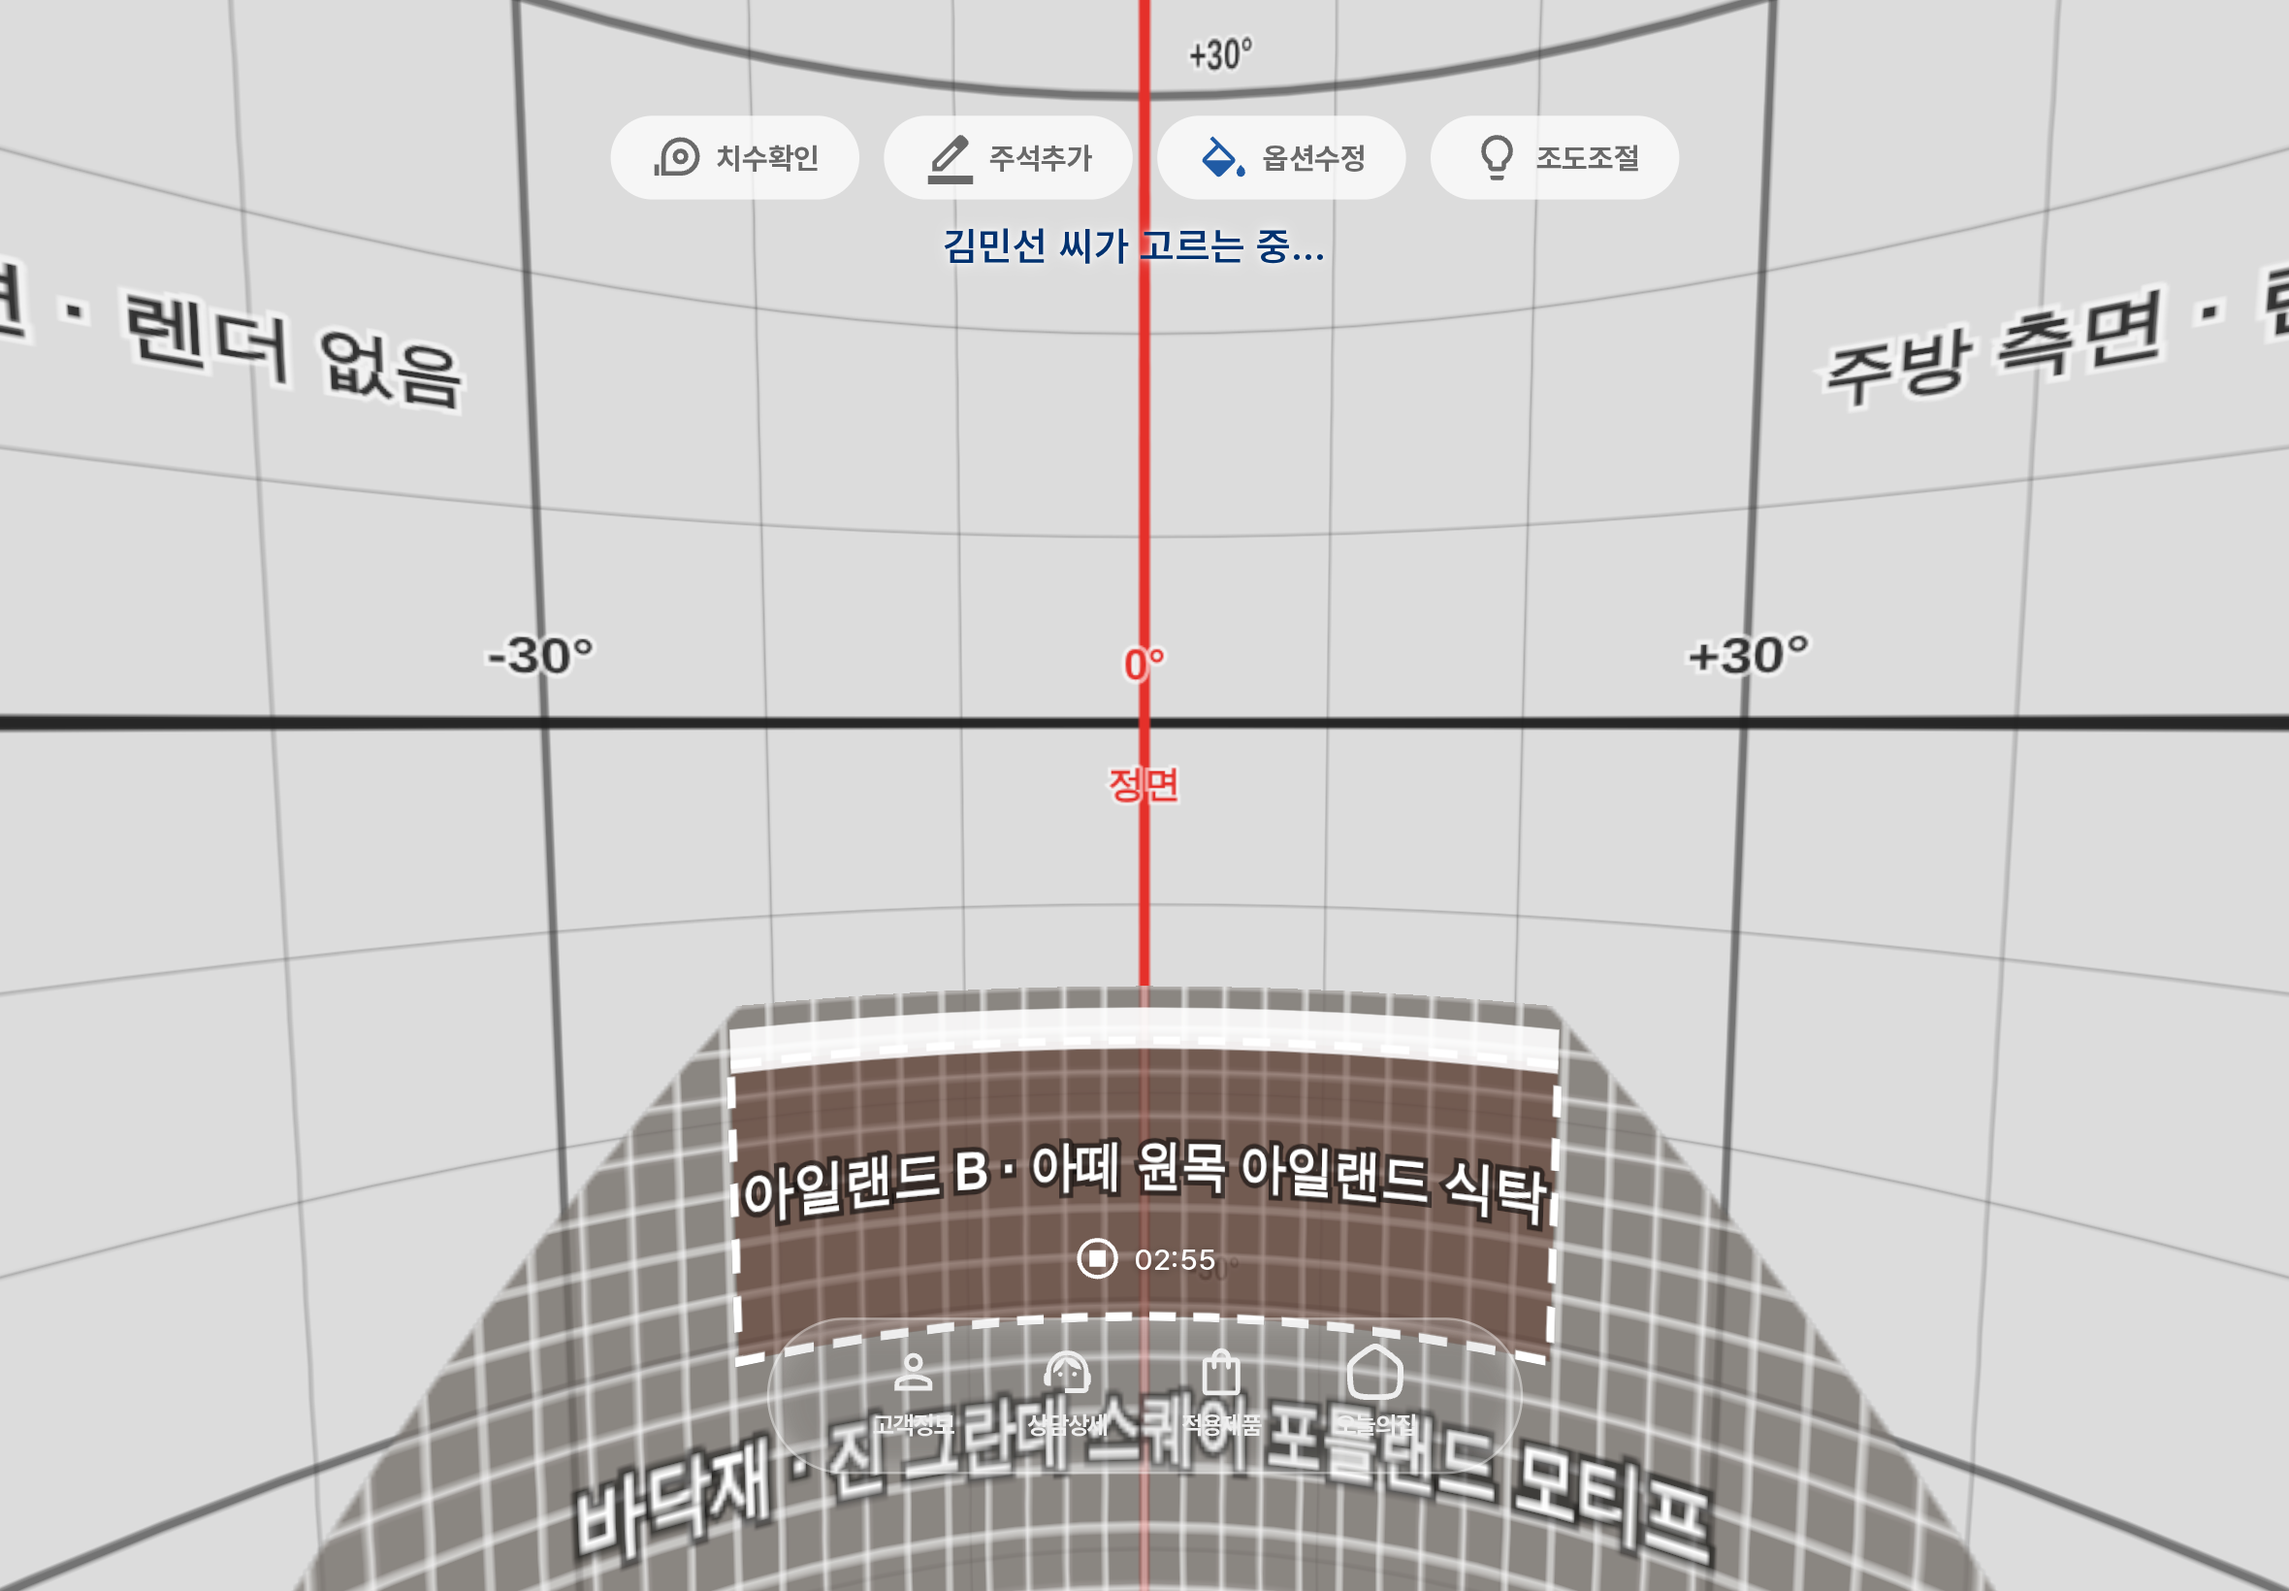
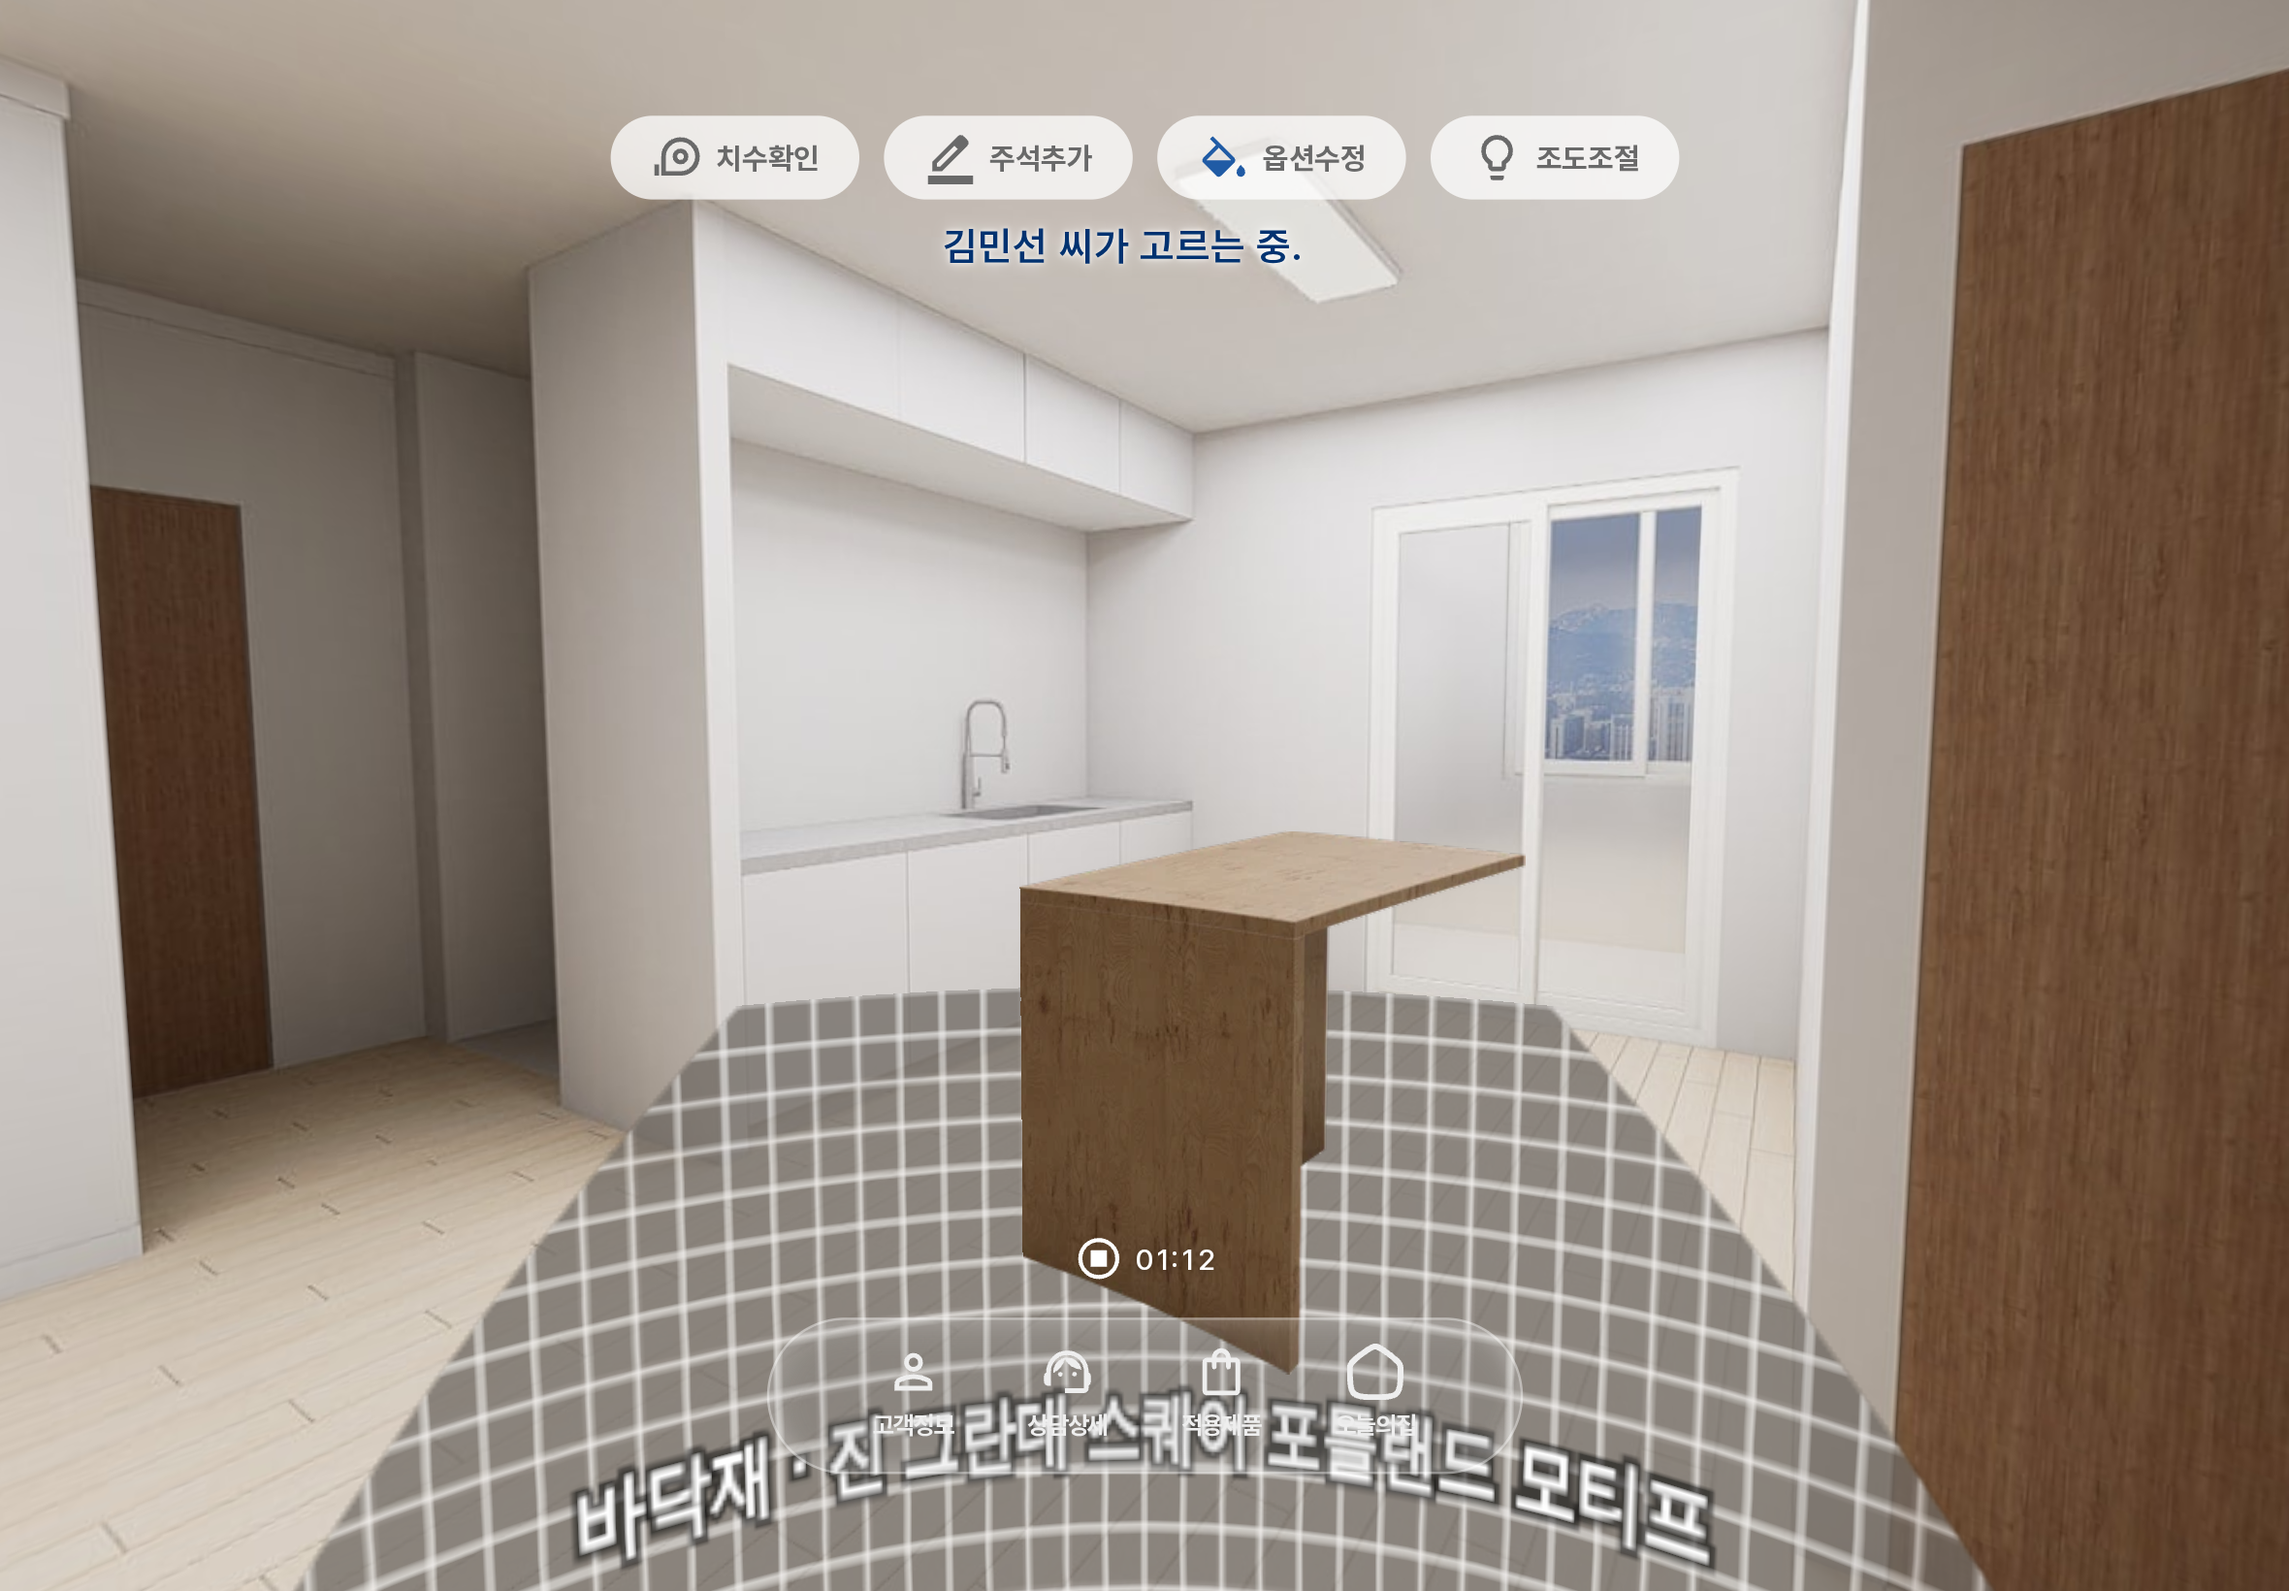
측면 아일랜드를 바닥선에 맞춰 내리고 10% 축소, 장면 캡처를 실제 배경으로 다시 찍음
- scene.js CUT_PLACE island_b_side: yaw 6.7° · bottom -32.9° · height 27°
  (사용자가 표시한 바닥선에 앞판 아랫변을 맞춤, 2배 크기에서 10% 축소). 맥북에서 npm run pano:prep 필요
- docs/captures/2026-10-15: S4-2c 태블릿(바닥 선택 영역 제외)·XR 새 위치로 다시 캡처
- docs/captures/2026-10-13: S3-1c·S3-2a·S4-3a를 실제 주방 렌더 배경으로 다시 캡처

Claude-Session: https://claude.ai/code/session_01RXp8MY4RTNqnWJfB5JWhVs

diff --git a/mvp/src/shared/scene.js b/mvp/src/shared/scene.js
@@ -28,7 +28,7 @@ export const LAYERS = {
 // 오브제만 잘라 낸 누끼(파노라마 크기가 아닌 PNG)를 배경 위 어디에 세울지(도 단위).
 //  yaw = 가로 중심, bottom = 오브제 바닥이 닿는 pitch, height = 화면에서의 높이. 바꾼 뒤 npm run pano:prep -- --force
 export const CUT_PLACE = {
-  island_b_side: { yaw: 0, bottom: -24.5, height: 30 }, // 측면 주방 통로 가운데(조리대 앞). 10/15 사용자 확인: 크기 2배
+  island_b_side: { yaw: 6.7, bottom: -32.9, height: 27 }, // 측면 주방 통로(조리대 앞). 10/15 사용자 지정: 앞판 아랫변을 표시한 바닥선에 맞추고 2배 크기에서 10% 축소
 };
 
 export const ISLAND_OPTIONS = ['a', 'b', 'c'];

diff --git a/mvp/docs/captures/2026-10-13/README.md b/mvp/docs/captures/2026-10-13/README.md
@@ -1,6 +1,7 @@
-# 장면 캡처 (10/13, 커밋 3122fcf 기준)
+# 장면 캡처 (10/13 찍음, 10/15 S3·S4를 실제 렌더 배경으로 다시 찍음)
 
-태블릿은 1180×820(2배 해상도), XR은 1920×1080으로 찍었다. 주방 렌더(kitchen_front·kitchen_side)는 git에 없어서 주방 장면은 **테스트 격자 + 와이어프레임 레이어**로 보인다. 매장은 실제 렌더.
+태블릿은 1180×820(2배 해상도), XR은 1920×1080. 주방은 10/14 렌더(정면·측면), 아일랜드 b는 정면=파노라마 통째, 측면=누끼(10/15 위치·크기). 매장은 실제 렌더.
+측면 바닥재는 아직 렌더·누끼가 없어 S4-3a의 바닥재는 격자무늬 자리 표시로 보인다.
 
 | 장면 | 태블릿 | XR |
 |---|---|---|

diff --git a/mvp/docs/captures/2026-10-15/README.md b/mvp/docs/captures/2026-10-15/README.md
@@ -1,6 +1,7 @@
 # S4-2c 캡처 (10/15) — "어두운 색상의 아일랜드에 어울리는 바닥재 2개를 제안해주세요."
 
-옵션수정 패널(색상 칩 선택) 단계. 실제 렌더(주방 측면 kitchen_side + 아일랜드 b 측면 누끼, 크기 2배) 위에서 찍었다.
+옵션수정 패널(색상 칩 선택) 단계. 실제 렌더(주방 측면 kitchen_side + 아일랜드 b 측면 누끼) 위에서 찍었다.
+아일랜드는 앞판 아랫변을 사용자가 표시한 바닥선에 맞추고, 2배 크기에서 10% 줄였다(`scene.js` CUT_PLACE: yaw 6.7° · bottom -32.9° · height 27°).
 
 | 파일 | 내용 |
 |---|---|
